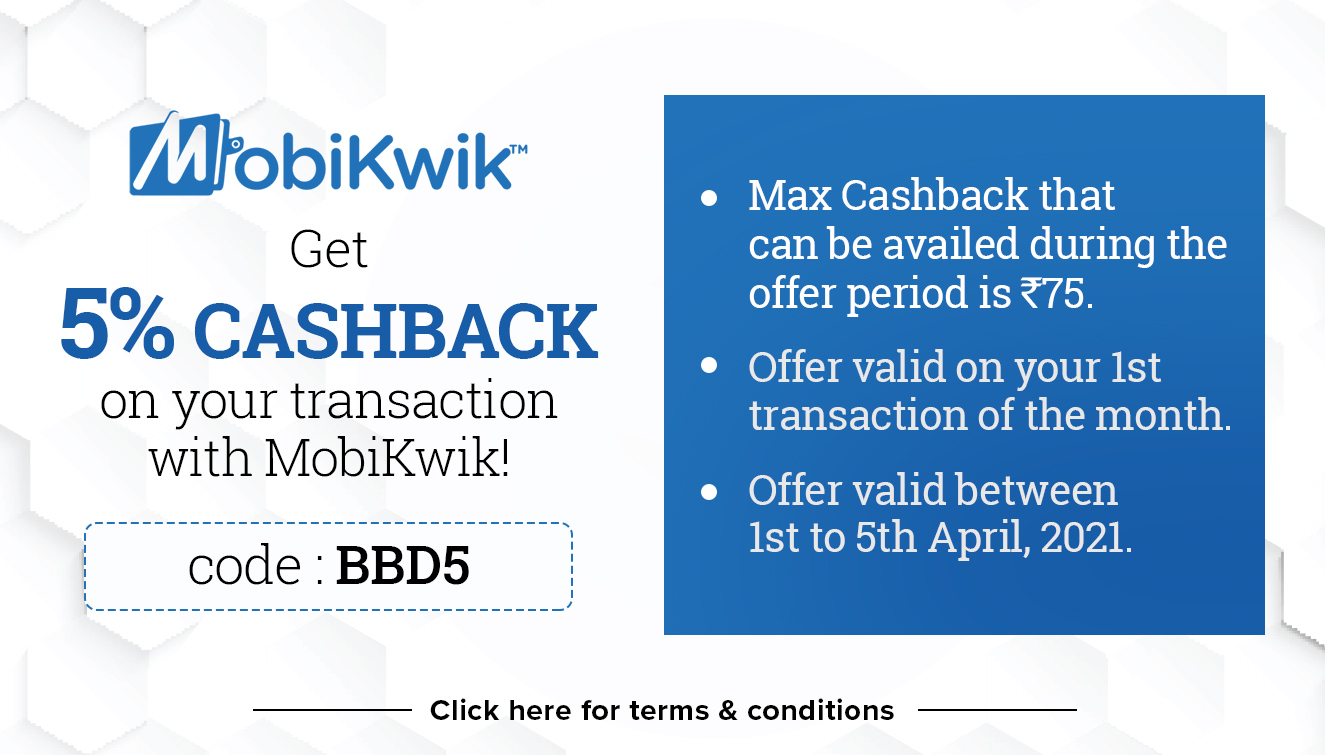
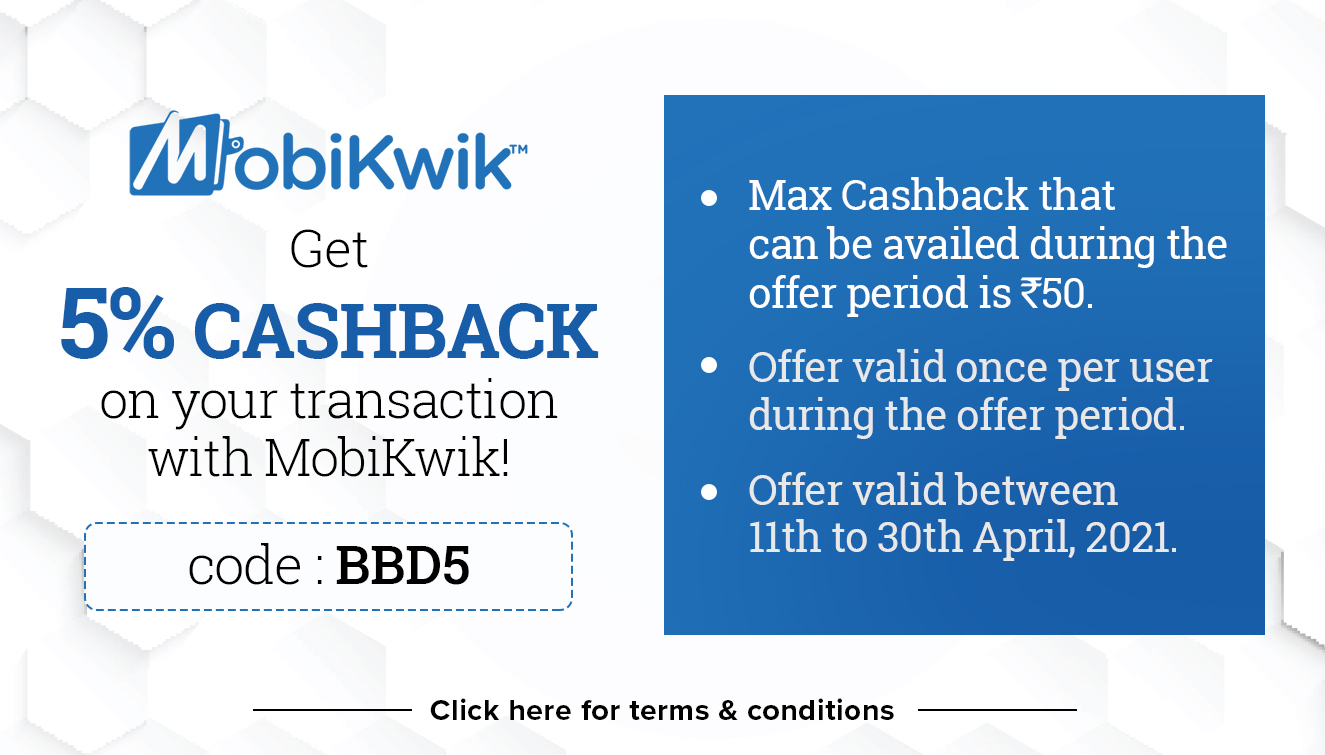
Version 3
Updated Mobikwik Banner.

Changed region(s): [[0.557, 0.457, 0.9283, 0.5788], [0.557, 0.6702, 0.8974, 0.7311], [0.7736, 0.3656, 0.8355, 0.4265]]

diff --git a/mobikwik.html b/mobikwik.html
@@ -75,9 +75,10 @@
                       </h1>
                       <p class="text-left"style="padding-top:5%; font-weight:bold; font-size: 16px" >
                         - Get 5% Cashback on your transaction with MobiKwik! <br>
-                        - Max Cashback that can be availed during the offer period is Rs.75 <br>
-                        - Offer valid on your 1st transaction of the month - Valid period: April 1st to 5th, 2021. <br>
-                        - Code: <strong>BBD5</strong> <br>
+                        - Max Cashback that can be availed during the offer period is Rs.50/- <br>
+                        - Offer valid once per user during the offer period <br>
+                        - Valid between April 11th to 30th, 2021 <br>
+                        - Code: BBD5 <br>
                         <br>
                       </p>
               </div>  

diff --git a/offers.html b/offers.html
@@ -231,12 +231,12 @@ $(document).ready(function () {
   </div>
 </div>  -->
  
-<div class="container">
+<!-- <div class="container">
     <div class="row mx-auto">
     <div class="col-12">
       <a href="refer.html" ><img class="rounded img-fluid mx-auto d-block" src="img/bbdaily_EntryBanner_Refer&Earn(50)_1324x755.png" width="800px" height="400px" ></a></div>
     </div>
-</div>
+</div> -->
 
 
     
